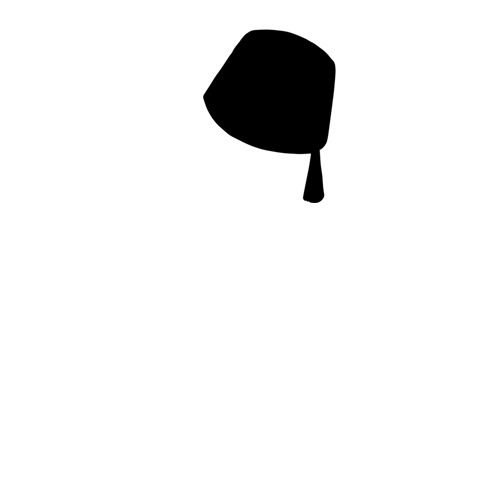
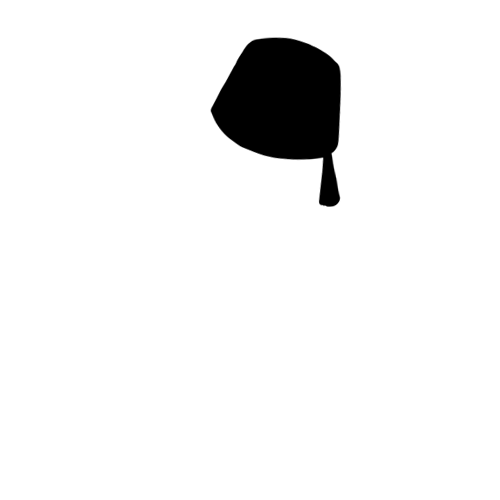
Test_Kalim

diff --git a/index.html b/index.html
@@ -65,6 +65,10 @@
               <!-- <img class="hair" src="assets/img/hair/hair3.png" alt=""> -->
               <img class="shadow" src="assets/img/shadow/shadow4.png" alt="">
             </div>
+            <div class="imgShadow" class="shadow-content">
+              <!-- <img class="hair" src="assets/img/hair/hair3.png" alt=""> -->
+              <img class="shadow" src="assets/img/shadow/shadow5.png" alt="">
+            </div>
 
           </div>
         </div>
